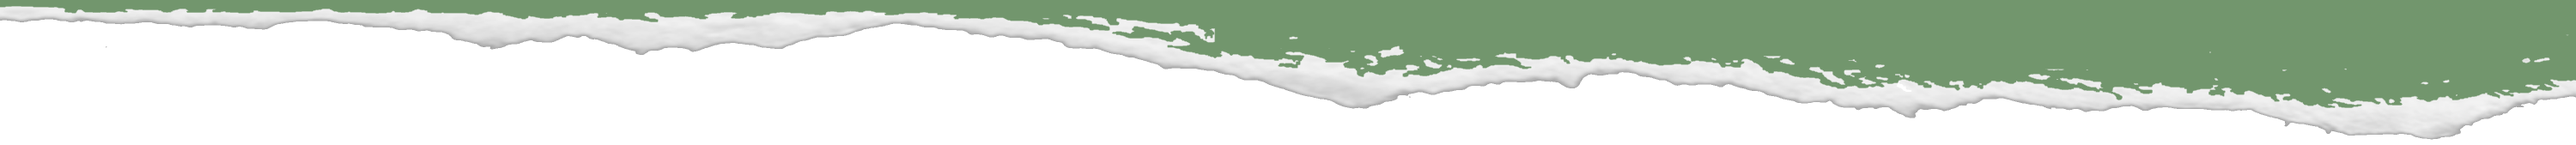
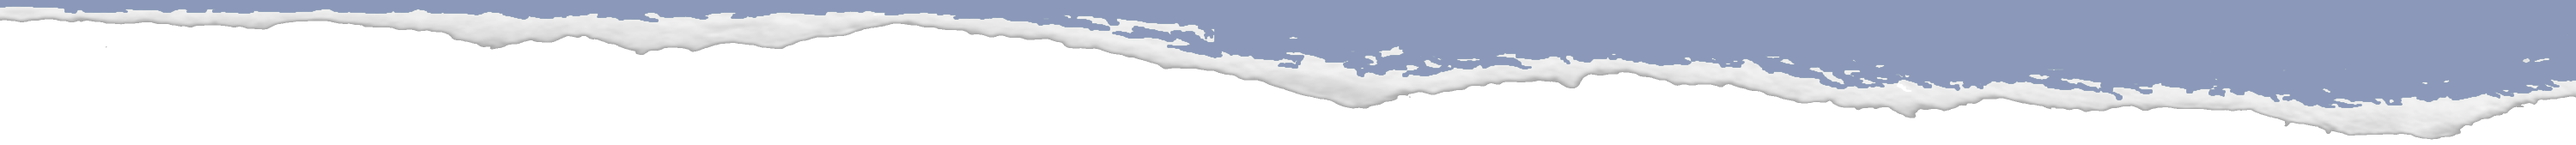
update content + header colour

diff --git a/src/pages/WeddingInfo.js b/src/pages/WeddingInfo.js
@@ -11,7 +11,7 @@ function WeddingInfo({isEvening}) {
 		return (
 			<div>
 				<EucalyptusHeader title="Ceremony" />
-				<p>Ceremony to start at 1 pm. Please aim to be there by 12:30.</p>
+				<p>Ceremony to start at 13:00. Please aim to be there by 12:30 at the latest.</p>
 				<p>Ceremony and Reception to all be held at Sopley Mill:</p>
 			</div>
 		);
@@ -76,19 +76,17 @@ function WeddingInfo({isEvening}) {
 					</div>
 				</div>
 				<p>To get there: Follow the A31 to Ringwood, then take the B3347 to Sopley</p>
-				<EucalyptusHeader title="Food" />
-				<p>All food will be provided by the <a href="http://theperfectpig.co.uk/" target="_blank" rel="noopener noreferrer">Perfect Pig</a></p>
-				<img src={perfectPigImage} alt="" />
-				<br />
-				{getDayFoodInfo()}
-				<div id="evening" className="menubox">
-					<h3>Evening</h3>
-					<ul>
-						<li>Wood-fired pizza bar</li>
-					</ul>
-				</div>
-				<p>GF - gluten free, Vg - vegan, V - vegetarian</p>
-				<p>TODO: Mention alcohol</p>
+				<EucalyptusHeader title="Parking" />
+				<p>Sopley mill has a car park on site.</p>
+				<p>You can leave your car overnight but make sure to pick it up by 11am the next day.</p>
+				<p>Unfortunately camper vans are not allowed overnight.</p>
+				<br/>
+				<EucalyptusHeader title="Food and Drink" />
+				<p>The ceremony will be followed by canapes and a selection of drinks: Pimm's, Beer and squash for the children</p>
+				<p>If this doesn't tickle your fancy, the pay bar will also be open until the end of the night<span className="asterisk">*</span></p>
+				<p>The wedding breakfast will follow shortly after canapes and photos, and there will a pizza bar in the evening.</p>
+				<p>Please see the RSVP form where you can enter any dietary requirements you may have</p>
+				<p><span className="asterisk">*</span><i>Please note the bars are well stocked for anything you might like to drink. Please refrain from bringing your own alcohol or we'll have to pass the fine on to you</i></p>
 				<br />
 				<EucalyptusHeader title="Where to stay" />
 				<p>As Sopley Mill is on the edge of the New Forest, there is no shortage of places to stay in the area</p>
@@ -119,11 +117,6 @@ function WeddingInfo({isEvening}) {
 					}
 				</div>
 				<br />
-				<EucalyptusHeader title="Parking" />
-				<p>Sopley mill has a car park on site.</p>
-				<p>You can leave your car overnight but make sure to pick it up by 11 am!</p>
-				<p>Unfortunately camper vans are not allowed overnight</p>
-				<br/>
 				<EucalyptusHeader title="Gifts" />
 				<p>As we already live together, and Andy is a hoarder, we've already accumulated more items than we have storage for</p>
 				<p>If you would like to give a gift, we are saving for our honeymoon, and any contribution you can give towards that we will be tremendously grateful for</p>

diff --git a/src/pages/HomePage.js b/src/pages/HomePage.js
@@ -19,13 +19,13 @@ function HomePage({isEvening}) {
             message = "the wedding has happened already! What are you doing back here?";
         }
         else if (daysToGo === 0) {
-            message = "we're saying I do today!";
+            message = "We will be saying our vows today!";
         }
         else if (daysToGo === 1) {
-            message = `we're saying I do tomorrow!`;
+            message = `We will be saying our vows tomorrow!`;
         }
         else {
-            message = `we're saying I do in ${daysToGo} days!`;
+            message = `We will be saying our vows in ${daysToGo} days!`;
         }
         return message;
     }
@@ -34,7 +34,9 @@ function HomePage({isEvening}) {
     <div className="page">
         <img className="InviteImage" alt="" src={isEvening ? eveningInvite : invite} />
         <div className="HomePageText">
-            <p>Hello, we're Andy and Molly, and {getNoOfDaysText()}</p>
+            <p>Hello there</p>    
+            <p>If you are here then chances are you've just received one of these long awaited invitations.</p>
+            <p>{getNoOfDaysText()}</p>
             {
                 !isEvening && <p>If you're an evening guest, you need the evening website, <Link to="/Evening/Home">here</Link></p>
             }
@@ -42,12 +44,12 @@ function HomePage({isEvening}) {
                 isEvening && <p>If you're a day guest, you need the day website, <Link to="/Home">here</Link></p>
             }
             <br/>
-            <p>All the details for the wedding can be found under "Wedding Info"</p>
+            <p>All the details for the wedding can be found under "Wedding Info"</p> { /* TODO: Link */ }
             <br/>
-            <p>If you are doing a confuse you can contact us here:</p>
+            <p></p>
+            <br />
+            <p>If you have any questions that aren't answered on the site, please feel free to contact us at:</p>
             <p>mayharbronwedding@gmail.com</p>
-            <p><strong>Andy:</strong> 07000000000</p>
-            <p><strong>Molly:</strong> 07000000000</p>
         </div>
     </div>);
 }

diff --git a/src/Slider/styles.css b/src/Slider/styles.css
@@ -19,7 +19,7 @@
   .animatable:not(.prepare).to.left,
   .animatable:not(.prepare).to.right {
     transform-origin: 50% 0%;
-    transform: scale(0, 1.2);
+    transform: scale(0.9, 1.025);
     opacity: 0;
   }
 
@@ -28,7 +28,7 @@
   }
 
   .animatable:not(.prepare).from {
-    transform-origin: 0 50%;
+    transform-origin: 50% 0%;
     transform: scale(1);
     opacity: 1;
   }

diff --git a/src/App.scss b/src/App.scss
@@ -64,7 +64,7 @@ h2 {
 	margin: 32px;
 }
 
-$headerColour: rgb(114,150,109);
+$headerColour: rgb(139, 152, 185);
 
 .header, .headerItems, .date, button {
 	background-color: $headerColour;
